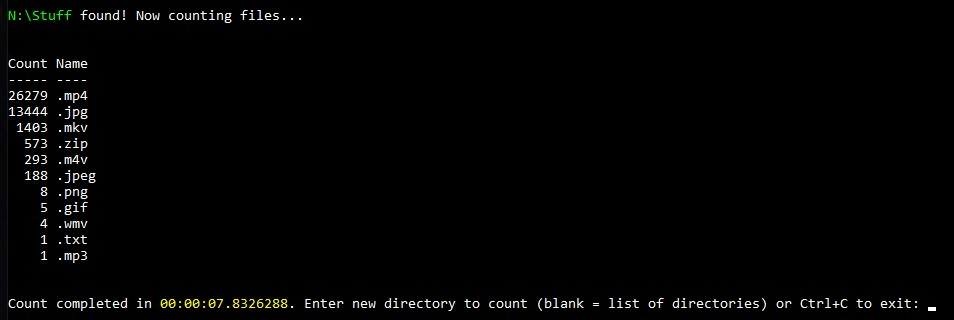
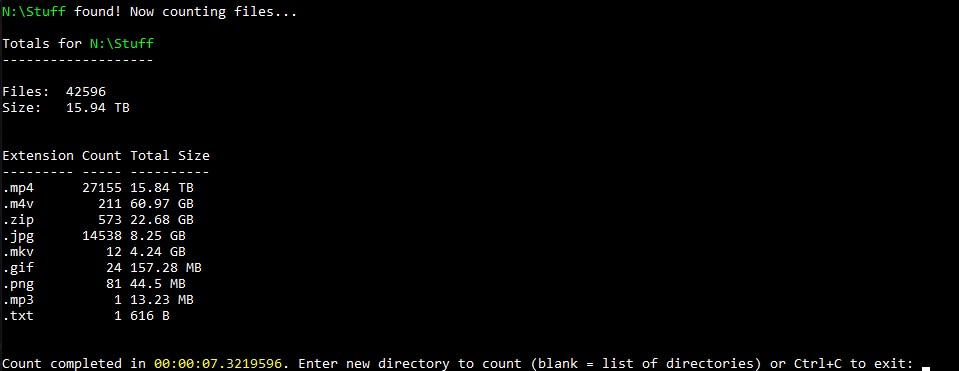
Update README
Updated README

Changed region(s): [[0.0, 0.0938, 0.2128, 0.875], [0.0, 0.9375, 0.9727, 1.0], [0.0, 0.0, 0.304, 0.0625]]

diff --git a/README.md b/README.md
@@ -41,7 +41,7 @@ Remove-Item .\combined.ps1
 
 ### Results Display
 
-<a href="https://postimg.cc/47ntBgxx" target="_blank"><img src="https://i.postimg.cc/DZPgffVL/4-Results.jpg" alt="4-Results"/></a>
+<a href="https://postimg.cc/47ntBgxx" target="_blank"><img src="https://i.postimg.cc/L5h47PDk/4-Results.jpg" alt="4-Results"/></a>
 
 ## Contributing
 
